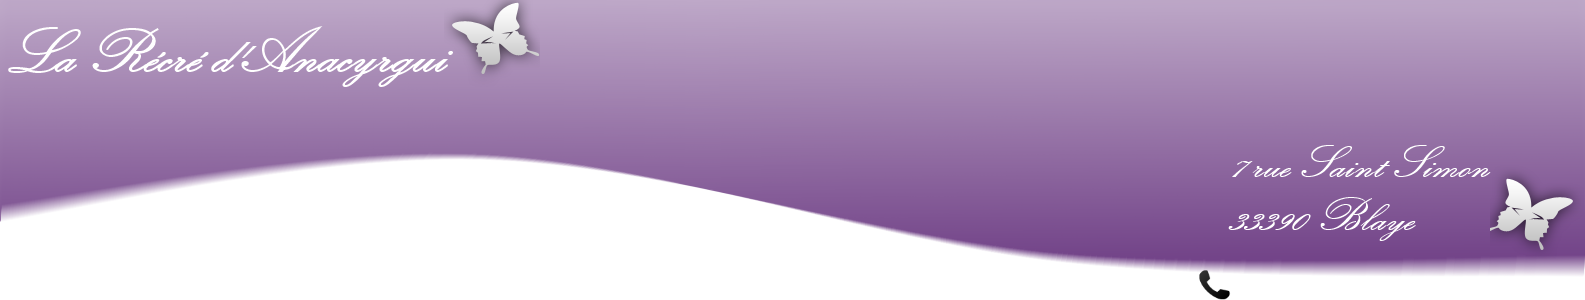
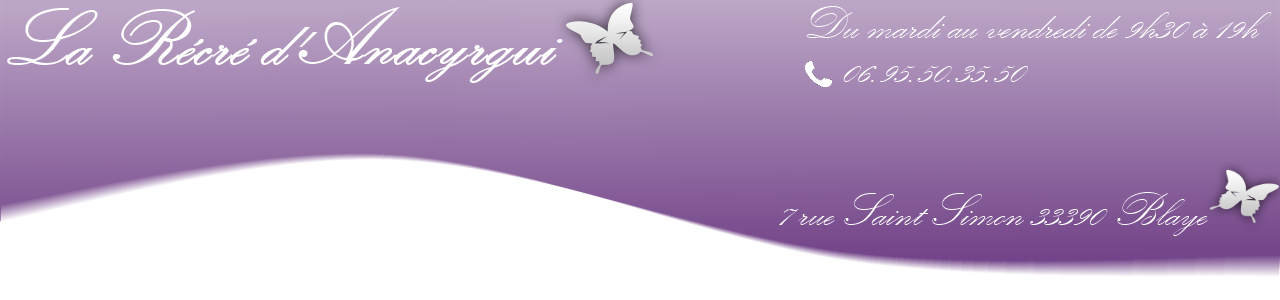
page admin boutons

diff --git a/webroot/css/cake.generic.css b/webroot/css/cake.generic.css
@@ -1,7 +1,8 @@
 header{
     background-image:url(../img/header.png);
-    background-repeat:no-repeat;
-    height: 400px;
+    background-size: 100%;
+    background-repeat: no-repeat;
+    height: 350px;
 }
 
 html{
@@ -70,12 +71,15 @@ h1{
     padding-top: 16%;
     padding-left: 79%;
 }
+
 .panier{
-    float : right;
-    background-image:url(../img/sac.png);
-    height: 500px;
-    width: 400px;
-    background-repeat:no-repeat;
+text-align: center;
+right: 1%;
+margin-left: 82%;
+    font-weight: bold;   
+    border-style: double;
+    border-color: #A98DB6;
+    background-color:#EED4E9;
 }
 
 .navigationgauche ul{
@@ -206,13 +210,13 @@ footer{
     background-color:#FFF3F3;
 }
 
- .blogconseil {
- 
-   color:#A98DB6;
-   font-weight:bold;
-   font-size: 60px;
-   font-family: kunstler Script;
-   padding-left: 125px;  
+.blogconseil {
+
+    color:#A98DB6;
+    font-weight:bold;
+    font-size: 60px;
+    font-family: kunstler Script;
+    padding-left: 125px;  
 }
 
 .bulle{
@@ -229,12 +233,12 @@ footer{
     font-family: cambria;
     font-weight:bold;
     font-size: 20px;
-    
+
 }
 
 .date_bulle{
     float: right;
-   font-family: cambria;
+    font-family: cambria;
 }
 
 table tr:nth-child(2n+1){
@@ -281,15 +285,15 @@ table tr:nth-child(2n+1){
     padding-left: 300px; 
     margin-bottom: 200px;
     padding-top: 20px;
- }
+}
 
 .connexion input, textarea, select, option {
     background-color:#FFF3F3;
 }
 
 #UserSignupForm {
-     height: 170px;
- }
+    height: 170px;
+}
 
 #UserSignupForm, #UserLoginForm, #UserPasswordForm, #NewsLetterNewsletterForm, #PostAddForm{
     border: 2px solid #BA55D3;
@@ -426,7 +430,7 @@ table tr:nth-child(2n+1){
 }
 
 .livreor{ 
-   
+
     background-image:url(../img/livreOr.jpg);
     background-repeat:no-repeat;
     height: 600px;
@@ -457,15 +461,15 @@ table tr:nth-child(2n+1){
 }
 
 .accueil{
-     background-image:url(../img/cadre.png);
-      background-repeat:no-repeat;
-      height: 300px;
-      width: 50%;
-      margin-left: 15%;
-      margin-top: 2%;
- }
- .accueil_texte{
-     
+    background-image:url(../img/cadre.png);
+    background-repeat:no-repeat;
+    height: 300px;
+    width: 50%;
+    margin-left: 15%;
+    margin-top: 2%;
+}
+.accueil_texte{
+
     width: 70%;
     color:#A98DB6;
     padding-top: 10%;
@@ -475,15 +479,15 @@ table tr:nth-child(2n+1){
     font-size: 20px;
     font-family: georgia;
     font-style: italic; 
- }
- 
- .boutonbulle{
-  float: right;  
-  width : 400px;
+}
+
+.boutonbulle{
+    float: right;  
+    width : 400px;
 }
 
 .test{
-    
+
 }
 
 .imageconseil{ 
